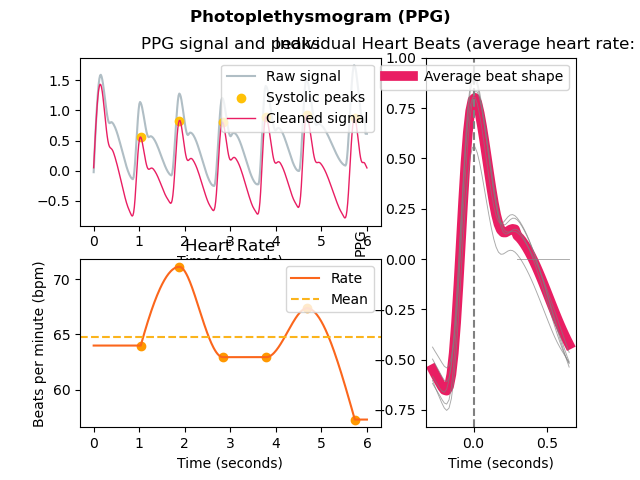
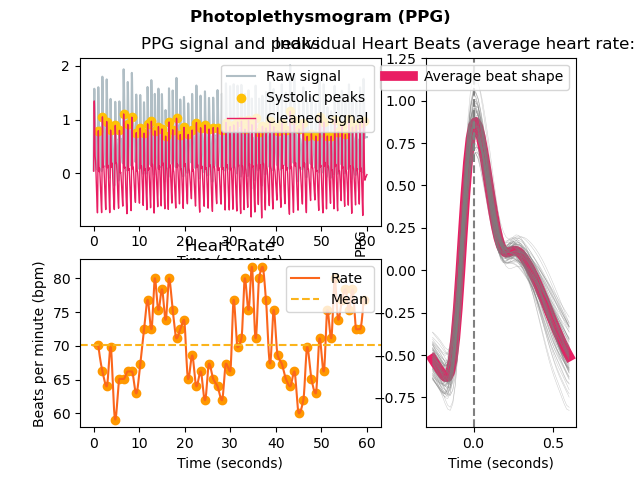
look into _ecg_segment_window

diff --git a/test.py b/test.py
@@ -3,7 +3,7 @@ import matplotlib.pyplot as plt
 import pandas as pd
 import numpy as np
 
-ppg = nk.ppg_simulate(duration=6, sampling_rate=64)
+ppg = nk.ppg_simulate(duration=60, sampling_rate=64)
 print('ppg shape:', ppg.shape)
 print('-'*50)
 print('ppg first 5:', ppg[:5])
@@ -34,6 +34,7 @@ nk.ppg_plot(signals, info)
 plt.savefig("myfig.png")
 
 
+#note, what neurokit does it that they get the hear rate and determint he window size directly from that. Of the window size, before the r-peak is .35 of the window, and after the r-peak is .65 of the window.
 
 # signals, waves = nk.ecg_delineate(ecg, rpeaks, sampling_rate=1000)
 # print(signals)
